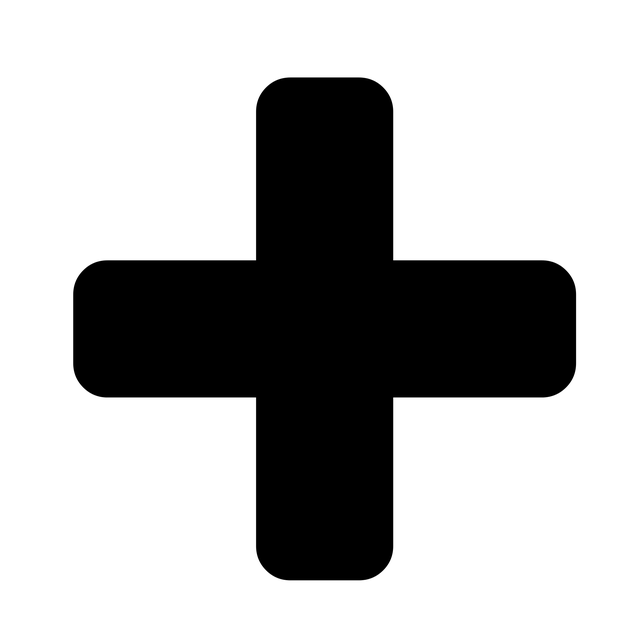
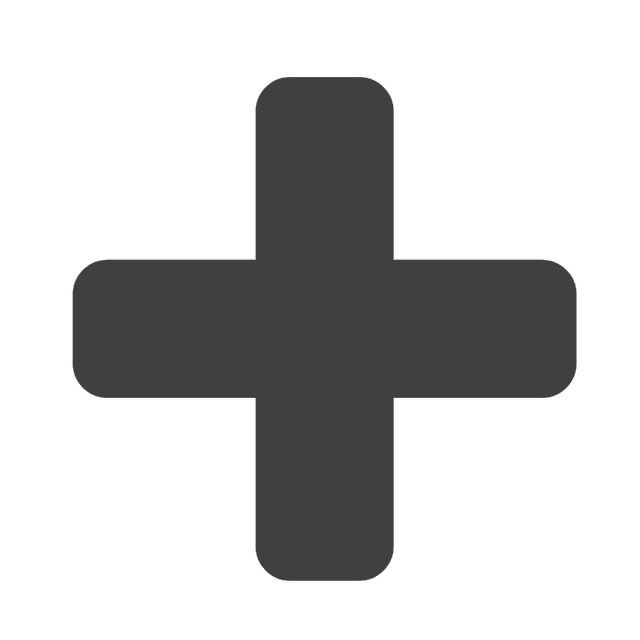
changed filter buttons styling

Changed region(s): [[0.0938, 0.0938, 0.9062, 0.9062]]

diff --git a/source/styles/explore-page.css b/source/styles/explore-page.css
@@ -39,6 +39,17 @@
   height: 20px;
 }
 
+.plus:hover,
+.minus:hover {
+  filter: brightness(150%);
+}
+
+.plus:active,
+.minus:active {
+  background: none;
+  filter: brightness(100%);
+}
+
 .filter-button {
   border: none;
   background: none;
@@ -115,11 +126,11 @@ label {
 }
 
 #apply-filters:hover {
-  background-color: #adadad;
+  filter: brightness(90%);
 }
 
 #apply-filters:active {
-  background-color: #808080;
+  filter: brightness(110%);
 }
 
 #search-button {
